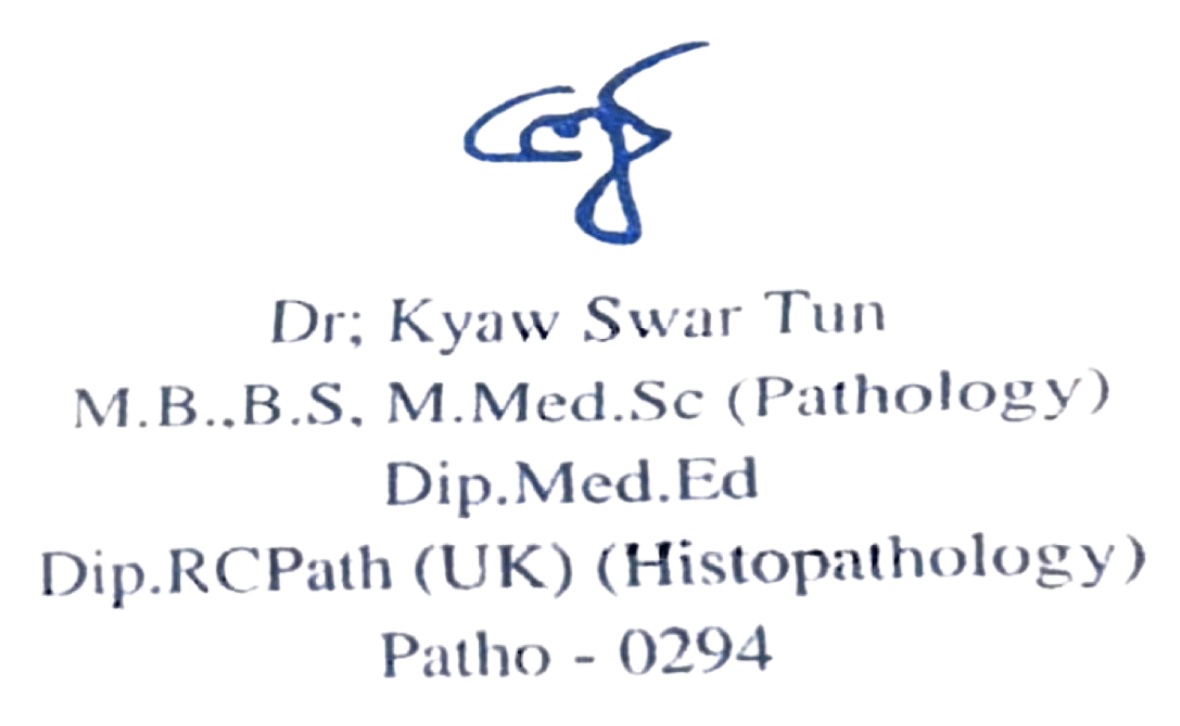
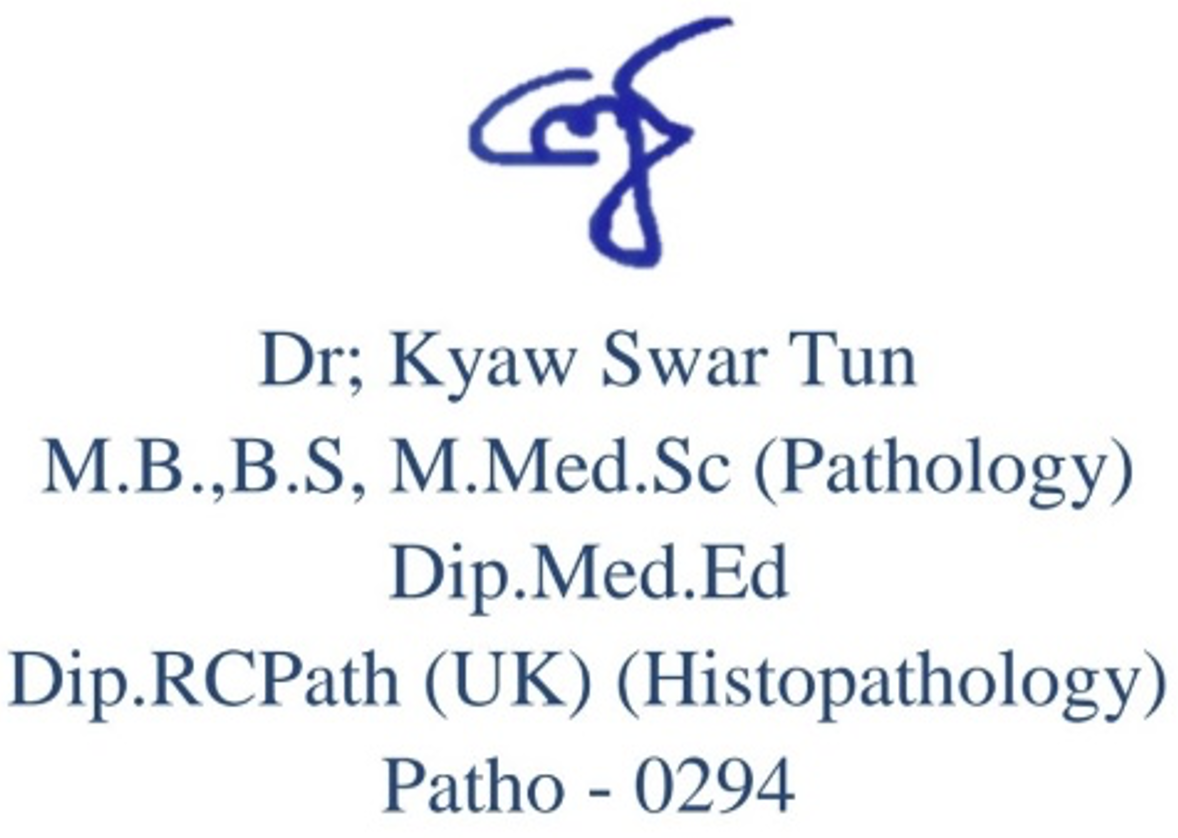
now can search item.name on pharm-purchase

Changed region(s): [[0.0, 0.5152, 1.0, 0.9697], [0.2139, 0.3939, 0.7946, 0.4848], [0.3667, 0.0, 0.6418, 0.3636]]

diff --git a/src/app/modules/pages/laboratory/components/print-result/print-result.component.html b/src/app/modules/pages/laboratory/components/print-result/print-result.component.html
@@ -2,22 +2,22 @@
     className="print-report mx-auto max-w-[210mm] bg-white p-8 ring-1 ring-slate-200 print:shadow-none print:ring-0 "
 >
     <header
-        class="flex items-start justify-between border-b-2 border-slate-900 pb-4"
+        class="flex items-start justify-between border-b-2 border-slate-900 pb-4 -mt-10"
     >
         <div class="flex items-center w-full gap-3">
             <div>
                 <img src="assets/logo.png" class="w-64" />
             </div>
-            <div class="w-full">
+            <div class="w-full pt-12">
                 <h1
-                    class="text-3xl font-bold tracking-tight text-slate-900 font-serif"
+                    class="text-3xl font-bold tracking-wide text-slate-900 font-serif"
                 >
-                    Diagnostic Centre
+                    Specialist Clinic & Diagnostic Centre
                 </h1>
                 <h1
-                    class="text-xl font-bold tracking-tight text-slate-900 pb-2"
+                    class="text-xl font-bold tracking-wider text-slate-900 pb-2"
                 >
-                    ဓာတ်ခွဲခန်းနှင့် ရောဂါရှာဖွေစစ်ဆေးရေးစင်တာ
+                    အထူးကုဆေးခန်းနှင့်ရောဂါရှာဖွေစစ်ဆေးရေးဓာတ်ခွဲခန်း
                 </h1>
                 <div class="text-slate-600 pb-2">
                     အမှတ် ၁၂၄၊ အမှတ် ၃ လမ်းမကြီး၊ သင်္ဃန်းကျွန်းကြီးမှတ်တိုင်၊
@@ -271,7 +271,7 @@
         <div></div>
         <div class="flex justify-end">
             <div>
-                <img src="assets/patho-sign.png" class="w-80" />
+                <img src="assets/patho-sign.png" class="w-64" />
             </div>
         </div>
         <p

diff --git a/src/app/modules/pages/pharmacy/pharm-purchase/list-purchase/list-purchase.component.html b/src/app/modules/pages/pharmacy/pharm-purchase/list-purchase/list-purchase.component.html
@@ -35,7 +35,18 @@
                 (ngSubmit)="reloadData()"
             >
                 <div class="flex flex-wrap w-full px-3 sm:px-6 pt-2 sm:pt-4">
-                    <div class="w-full sm:w-2/3 pr-6">
+                    <div class="w-full sm:w-2/4 pr-6">
+                        <mat-form-field class="w-full" appearance="fill">
+                            <mat-label>{{ "ITEM_NAME" | transloco }}</mat-label>
+                            <input
+                                type="text"
+                                matInput
+                                formControlName="itemName"
+                            />
+                        </mat-form-field>
+                    </div>
+
+                    <div class="w-full sm:w-1/4 pr-6">
                         <mat-form-field class="w-full" appearance="fill">
                             <mat-label>{{ "ITEM_CODE" | transloco }}</mat-label>
                             <input
@@ -46,7 +57,7 @@
                         </mat-form-field>
                     </div>
 
-                    <div class="w-full sm:w-1/3 pr-6">
+                    <div class="w-full sm:w-1/4 pr-6">
                         <mat-form-field class="w-full" appearance="fill">
                             <mat-label>{{ "STATUS" | transloco }}</mat-label>
                             <mat-select formControlName="status">

diff --git a/src/app/modules/pages/pharmacy/pharm-purchase/list-purchase/list-purchase.component.ts b/src/app/modules/pages/pharmacy/pharm-purchase/list-purchase/list-purchase.component.ts
@@ -53,6 +53,7 @@ export class ListPurchaseComponent implements OnInit, AfterViewInit {
             sortBy: ['date:desc'],
             status: ['Active'],
             itemCode: [''],
+            itemName: [''],
         });
 
         this._userService.get().subscribe(({ role }) => {
@@ -68,6 +69,7 @@ export class ListPurchaseComponent implements OnInit, AfterViewInit {
     reloadData() {
         const condition: any = {
             itemCode: this.formGroup.value.itemCode,
+            itemName: this.formGroup.value.itemName,
             status: this.formGroup.value.status,
             sortBy: this.formGroup.value.sortBy,
         };

diff --git a/src/app/app.config.ts b/src/app/app.config.ts
@@ -340,4 +340,6 @@ export const MESSAGES = {
     CONFIRM_ARCHIVE_PHARM_PURCHASE: 'ဆေးအဝယ်အား Archive လုပ်ရန် သေချာပါသလား?',
     SUCCESS_ARCHIVE_PHARM_PURCHASE:
         'ဆေးအဝယ်အား အောင်မြင်စွာ Archive လုပ်ပြီးပါပြီ။',
+    CONFIRM_DEACTIVATE_PHARM_ITEM: 'ဆေးဝါးအား မရောင်းချရန် သေချာပါသလား?',
+    CONFIRM_ACTIVATE_PHARM_ITEM: 'ဆေးဝါးအား ပြန်လည်ရောင်းချလိုပါသလား?',
 };

diff --git a/src/app/modules/pages/pharmacy/pharm-item/list-item/list-item.component.ts b/src/app/modules/pages/pharmacy/pharm-item/list-item/list-item.component.ts
@@ -90,9 +90,9 @@ export class ListItemComponent implements OnInit, AfterViewInit {
     changeStatus(element: any) {
         let message = '';
         if (element.status === 'Active') {
-            message = MESSAGES.CONFIRM_DEACTIVATE_USER;
+            message = MESSAGES.CONFIRM_DEACTIVATE_PHARM_ITEM;
         } else {
-            message = MESSAGES.CONFIRM_ACTIVATE_USER;
+            message = MESSAGES.CONFIRM_ACTIVATE_PHARM_ITEM;
         }
 
         this.confirmService

diff --git a/src/app/modules/pages/laboratory/lab-report-detail/lab-report-detail.component.ts b/src/app/modules/pages/laboratory/lab-report-detail/lab-report-detail.component.ts
@@ -23,7 +23,7 @@ export class LabReportDetailComponent implements OnInit {
 
     displayHeader = true;
 
-    signatureInBottom = false;
+    signatureInBottom = true;
 
     role!: string;
     userId!: string;
